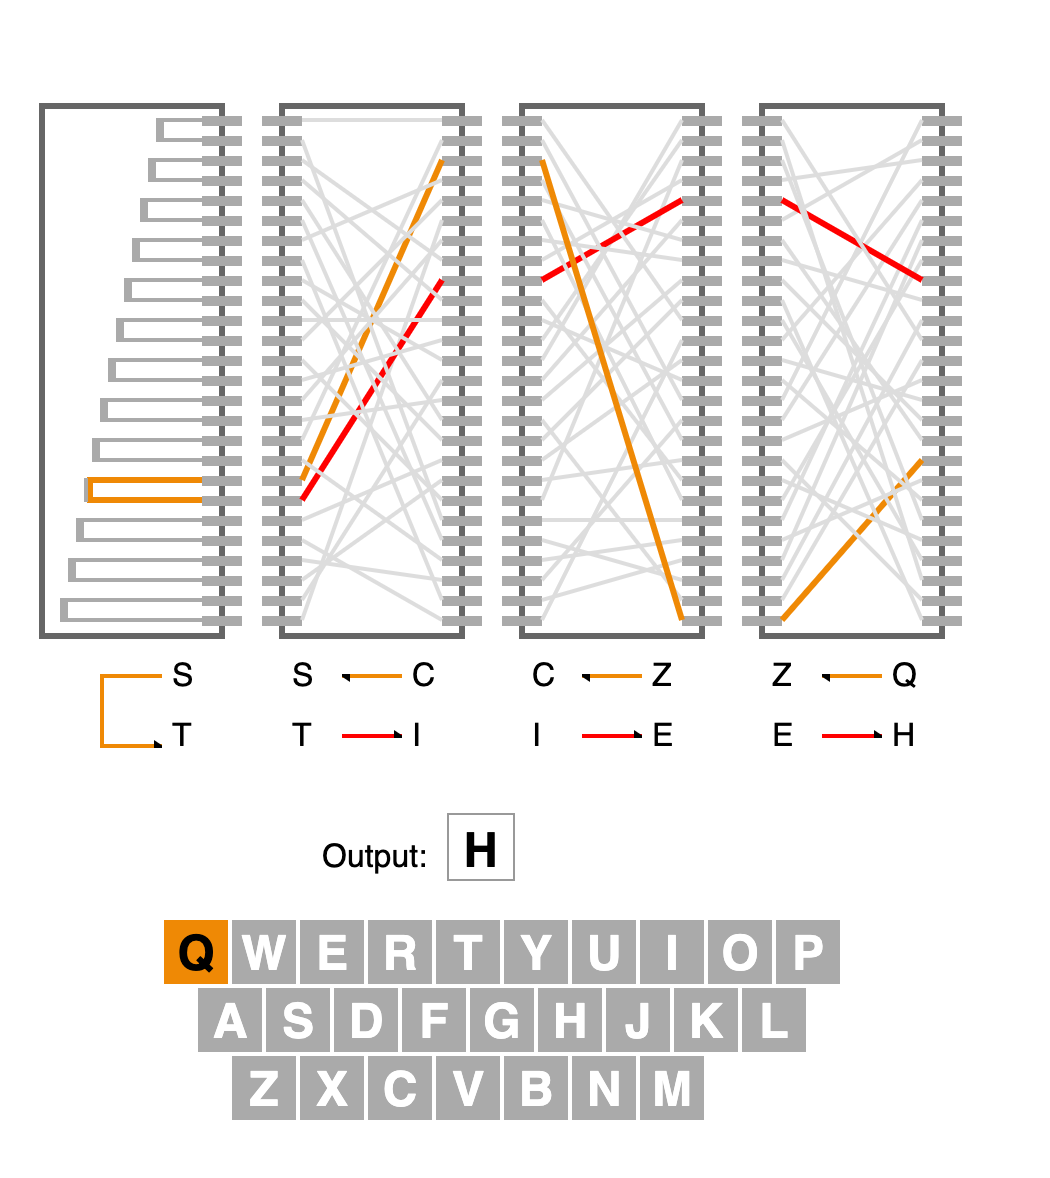
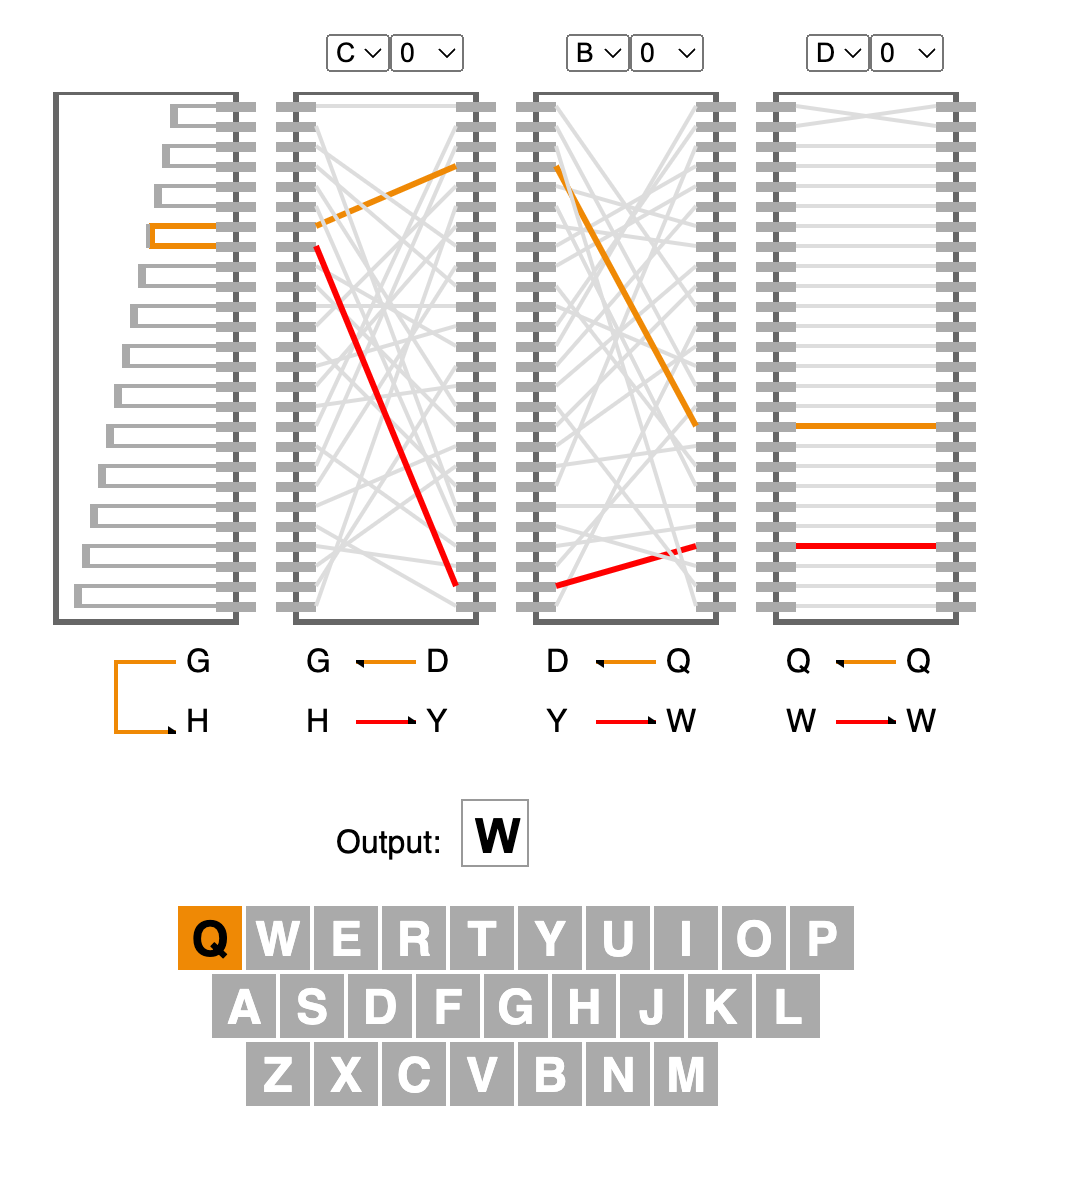
updating README to include the new rotor and offset options

Changed region(s): [[0.0305, 0.0306, 0.9143, 0.6418], [0.1524, 0.6723, 0.8229, 0.9779]]

diff --git a/README.md b/README.md
@@ -6,7 +6,7 @@ $ npm start
 
 # Usage
 
-This enignma machine is composed of three rotors shows as vertical columns and one reflector (the first column left to right). Initially the wiring diagram and transformations will look empty.
+This enignma machine is composed of three rotors shows as vertical columns and one reflector (the first column left to right). Initially the wiring diagram and transformations will look empty. Also at the top are three pairs of drop downs (C,O), (B,O) and (D,0) what this means is to use Rotor C with 0 offset, Rotor B with 0 offset and Rotor D with 0 offset. Each rotor has a different encoding with Rotor D as the simple (map each letter to itself). Offsets enable users to rotate each rotor to come up with custom starting positions. 
 
 ![Alt text](image.png)
 
@@ -14,23 +14,25 @@ Input your message one character at a time using your mouse and the keyboard sho
 
 In this example, the first letter I clicked on was the letter Q.  The diagnostics are shown at the bottom of each rotor and start out right to left then through the reflector and back left to right. In this case, 
 
-1. Q gets mapped to Z in rotor1 
-2. Z is mapped to C in rotor 2 
-3. C is mapped to S in rotor 3
-4. S is mapped to T in the reflector
-5. T is mapped to I in rotor 3
-6. I is mapped to letter E in rotor 2
-7. E is mapped to H in rotor1. 
+1. Q gets mapped to Q in rotor1 
+2. Q is mapped to D in rotor 2 
+3. D is mapped to G in rotor 3
+4. G is mapped to H in the reflector
+5. H is mapped to Y in rotor 3
+6. Y is mapped to W in rotor 2
+7. W is mapped to W in rotor1. 
 
 ![Alt text](image-1.png)
 
-As you click each key the input will be stored in the text box labeled "In" and the ciphered output will be stored in the next box labeled "Out:". In this first example, In = Q and Out = H. Adding more letters will add more to the In and Out text boxes.
+As you click each key the input will be stored in the text box labeled "In" and the ciphered output will be stored in the next box labeled "Out:". In this first example, In = Q and Out = H. Adding more letters will add more to the In and Out text boxes. Adding letters will also increment the offsets so that the cipher continues to change. This makes it harder to decipher. 
 
 Also note that as you input letters the rotor wire diagrams change (aka rotate). This is an important feature of an Enigma machine. 
 
 To Decode the message, write down the Out message somewhere and refresh your browser. Then you can key in each letter of out to get the deciphered text. 
 
-A good example is that MATTHEW gets encoded as FSBKBWN. Notice that the two T's get encoded as different letters and this is the advantage of a rotating cipher over a static cipher. In a standard substitution cipher T would always become a single letter (e.g. F). This variance of letter mappings makes it harder to decode a rotational cipher. 
+A good example is that QWERTY gets encoded as WQZPEX and if you refresh the browser and enter WQZPEX then you'll get back QWERTY. 
+
+
 
 # Problem
 
